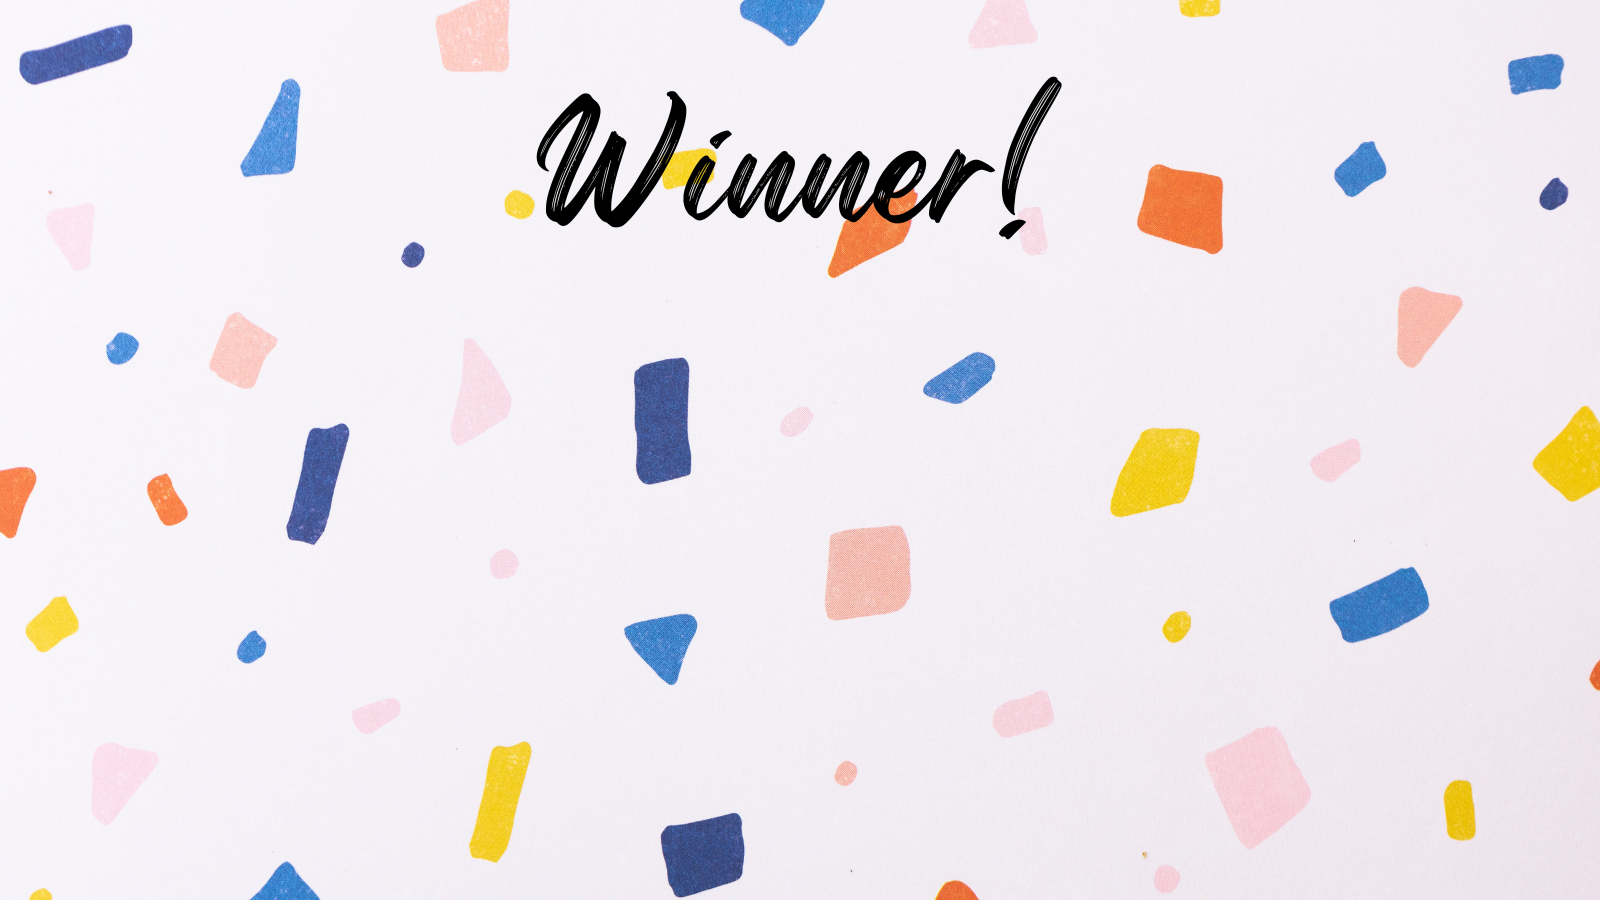
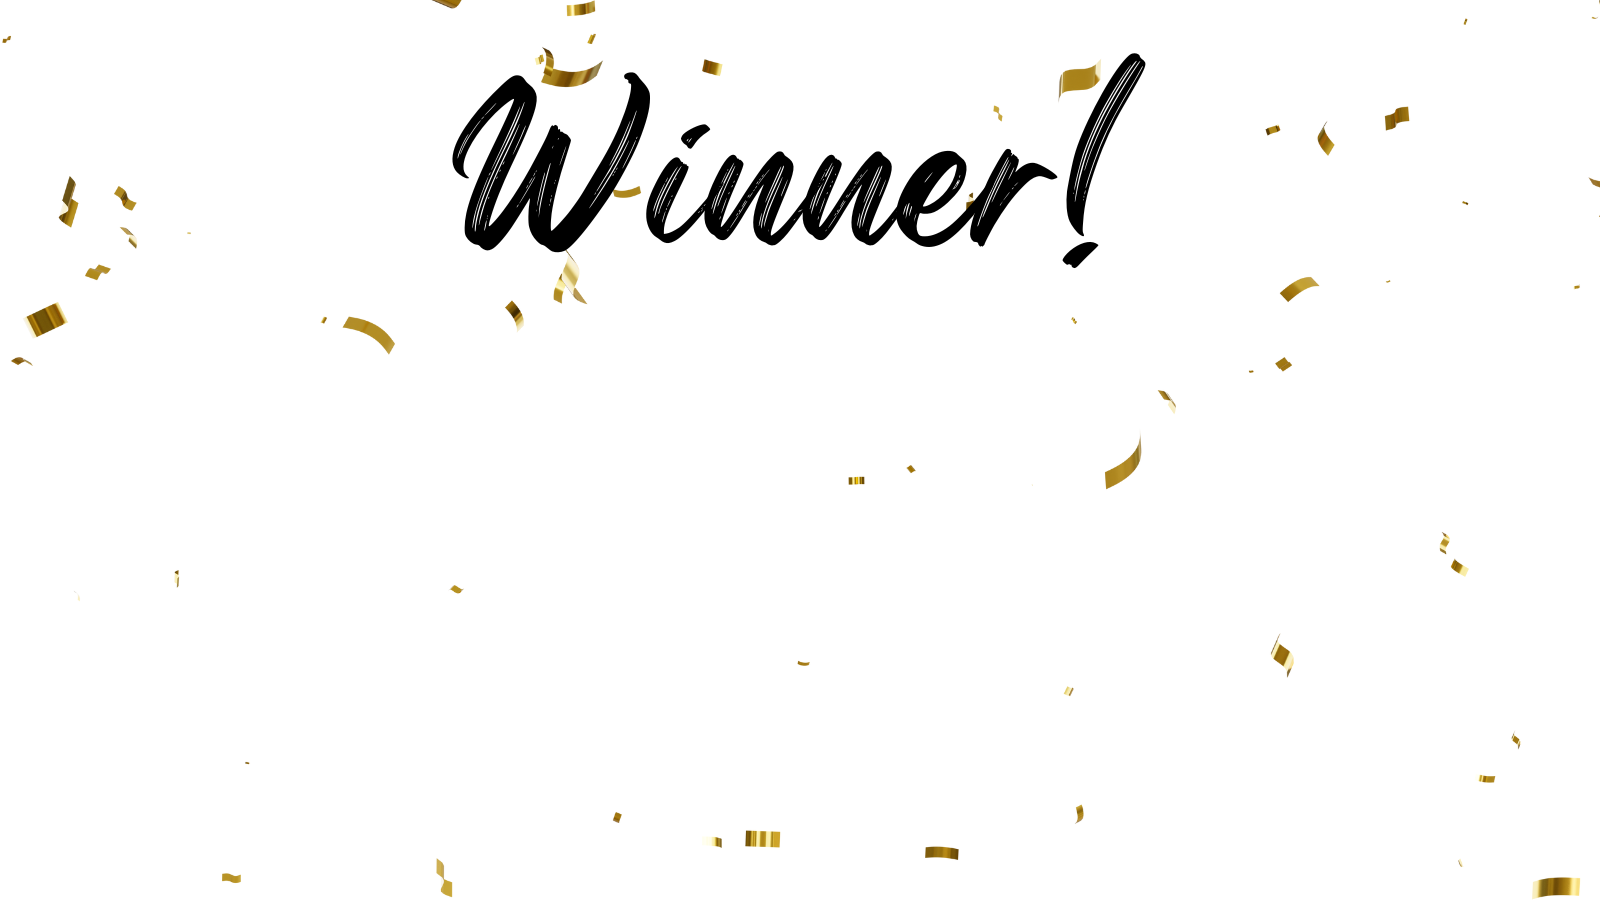
buttons are working

diff --git a/winner.c b/winner.c
@@ -5,24 +5,33 @@
 #include "gamecollision.h"
 #include "config.h"
 #include "utils.h"
-
+#include "tank.h"
+#include <stdio.h>
 
 #define NUM_WINNER_BUTTONS 2
 
 //global assets initalisation
 CP_Image winnerBackScreen;
+CP_Image p1Win;
+CP_Image p2Win;
+
 CP_Font font;
 CP_Color buttonColor;
 CP_Color strokeColor;
 CP_Color blackColor;
 
 typedef struct Button {
-	char* winnerButton; // takes in what to display on the winner 
+	char* winnerButton; // takes in what to display on the winner
 	Rect rect; //takes in the size and the position
+	Position pos; //takes in for the text
 }Button;
 
-extern Size WINDOW_SIZE;
+enum {
+	RESTART=1,EXIT //used to define which state the game will be at
+};
 
+extern Size WINDOW_SIZE;
+extern Tank tanks[NUM_PLAYERS];
 
 Size winnerButtonsize = { 200.0,75.0 };
 Position firstButtonPos = { 0 };
@@ -32,51 +41,81 @@ double winnerTextSize = 50.0;
 char* winnerButton[NUM_WINNER_BUTTONS] = {"Restart","Exit"};
 Button winnerButtons[NUM_WINNER_BUTTONS] = {0};
 
+int nextState = 0;
 
 void buttonConstructor(void) {
+	firstButtonPos.x = WINDOW_SIZE.width / 2-winnerButtonsize.width/2;
+	firstButtonPos.y = WINDOW_SIZE.height / 4 + WINDOW_SIZE.height / 2;
 	for (int i = 0; i < NUM_WINNER_BUTTONS; i++) {
 		winnerButtons[i].winnerButton = winnerButton[i];
 		winnerButtons[i].rect.size = winnerButtonsize;
 		winnerButtons[i].rect.pos.x = firstButtonPos.x;
-		winnerButtons[i].rect.pos.y = firstButtonPos.y + (i * 2 * winnerButtonsize.height);
+		winnerButtons[i].rect.pos.y = firstButtonPos.y + (i * 3 * (winnerButtonsize.height)/2);
+		winnerButtons[i].pos.x = winnerButtons[i].rect.pos.x + winnerButtonsize.width / 2;
+		winnerButtons[i].pos.y = winnerButtons[i].rect.pos.y;
 	}
 
 }
 
+void buttonSelection(void) {
+	for (int i = 0; i < NUM_WINNER_BUTTONS; i++) {
+		if (mouseInRect(winnerButtons[i].rect, CP_Input_GetMouseX(), CP_Input_GetMouseY())) {
+			if (CP_Input_MouseTriggered(MOUSE_BUTTON_LEFT)) {
+				if (!strcmp(winnerButtons[i].winnerButton, "Restart")) {
+					nextState = RESTART;
+					printf("GAME RESTART");
+				}
+				else if (!strcmp(winnerButtons[i].winnerButton, "Exit")) {
+					nextState = EXIT;
+					printf("GAME EXIT");
+				}
+			}
+		}
+	}
+}
 
-void initWinner(void) {
+void winnerInit(void) {
 
 	//load assets
-	winnerBackScreen = CP_Image_Load("./Assets/winner_screen.png");
+	//winnerBackScreen = CP_Image_Load("./Assets/winner_screen.png");
+	p1Win = CP_Image_Load("./Assets/player1_winner.png");
+	p2Win = CP_Image_Load("./Assets/player2_winner.png");
 	font = CP_Font_Load("Assets/Exo2-Regular.ttf");
 
 	CP_Font_Set(font);
-	CP_Settings_RectMode(CP_POSITION_CENTER); //set it to center for easier reference
-	//CP_Settings_RectMode(CP_POSITION_CORNER);
+	CP_Settings_RectMode(CP_POSITION_CORNER); //set it to center for easier reference
+	CP_Settings_TextAlignment(CP_TEXT_ALIGN_H_CENTER, CP_TEXT_ALIGN_V_TOP); //positioning of the text
+
+
 	buttonColor = CP_Color_Create(0, 0, 0, 220);
 	strokeColor = CP_Color_Create(0, 0, 0, 0);
 	blackColor = CP_Color_Create(0, 0, 0, 255);
 	//CP_Graphics_ClearBackground(blackColor);
 }
 
-void updateWinner(void) {
+void winnerUpdate(void) {
+	buttonConstructor();
+	if (tanks[0].health > tanks[1].health) {
+		winnerBackScreen = p1Win;
+		//draw player1 winning screen
+	}
+	else {
+		//draw player 2 winning screen
+		winnerBackScreen = p2Win;
+	}
 	CP_Image_Draw(winnerBackScreen, (float)(WINDOW_SIZE.width / 2), (float)(WINDOW_SIZE.height / 2), (float)(WINDOW_SIZE.width), (float)(WINDOW_SIZE.height), 50); // to draw the image in the middle
 	for (int i = 0; i < NUM_WINNER_BUTTONS; i++) {
-		//drawRect(&winnerButtons[i].rect, &buttonColor, &strokeColor);
-		CP_Settings_Fill(buttonColor);
-		CP_Settings_Stroke(strokeColor);
-		CP_Graphics_DrawRect((float)(winnerButtons[i].rect.pos.x), (float)winnerButtons[i].rect.pos.y, (float)winnerButtons[i].rect.size.width, (float)winnerButtons[i].rect.size.height);
+		drawRect(&winnerButtons[i].rect, &strokeColor, &buttonColor);
+		drawText(winnerButtons[i].winnerButton, &winnerButtons[i].pos, winnerTextSize, &blackColor);
+	}
+	buttonSelection();
 
-	//	//drawText(winnerButtons[i].winnerButton, &winnerButtons[i].rect.pos, winnerTextSize, &blackColor);
-	//	//CP_Settings_TextSize((float)size);
-	//	//CP_Settings_Stroke(*strokeColor);
-	//	//CP_Settings_Fill(*strokeColor);
-	//	//CP_Font_DrawText(text, (float)A->x, (float)A->y);
-		}
 }
 
-void exitWinner(void) {
+void winnerExit(void) {
 	CP_Image_Free(&winnerBackScreen);
+	CP_Image_Free(&p1Win);
+	CP_Image_Free(&p2Win);
 }
 
 //CP_Engine_SetNextGameState(initWinner, updateWinner, exitWinner);

diff --git a/game.c b/game.c
@@ -50,7 +50,7 @@ void gameUpdate(void) {
 	}
 
 	if (CP_Input_KeyTriggered(KEY_HOME)) {
-		CP_Engine_SetNextGameState(initWinner, updateWinner, exitWinner); //for testing of winner screen
+		CP_Engine_SetNextGameState(winnerInit, winnerUpdate, winnerExit); //for testing of winner screen
 	}
 
 	drawWall();

diff --git a/winner.h b/winner.h
@@ -7,8 +7,8 @@ enum {
 }; //ENUM FOR THE 2 BUTTONS
 
 
-void initWinner(void);
+void winnerInit(void);
 
-void updateWinner(void);
+void winnerUpdate(void);
 
-void exitWinner(void);
+void winnerExit(void);
